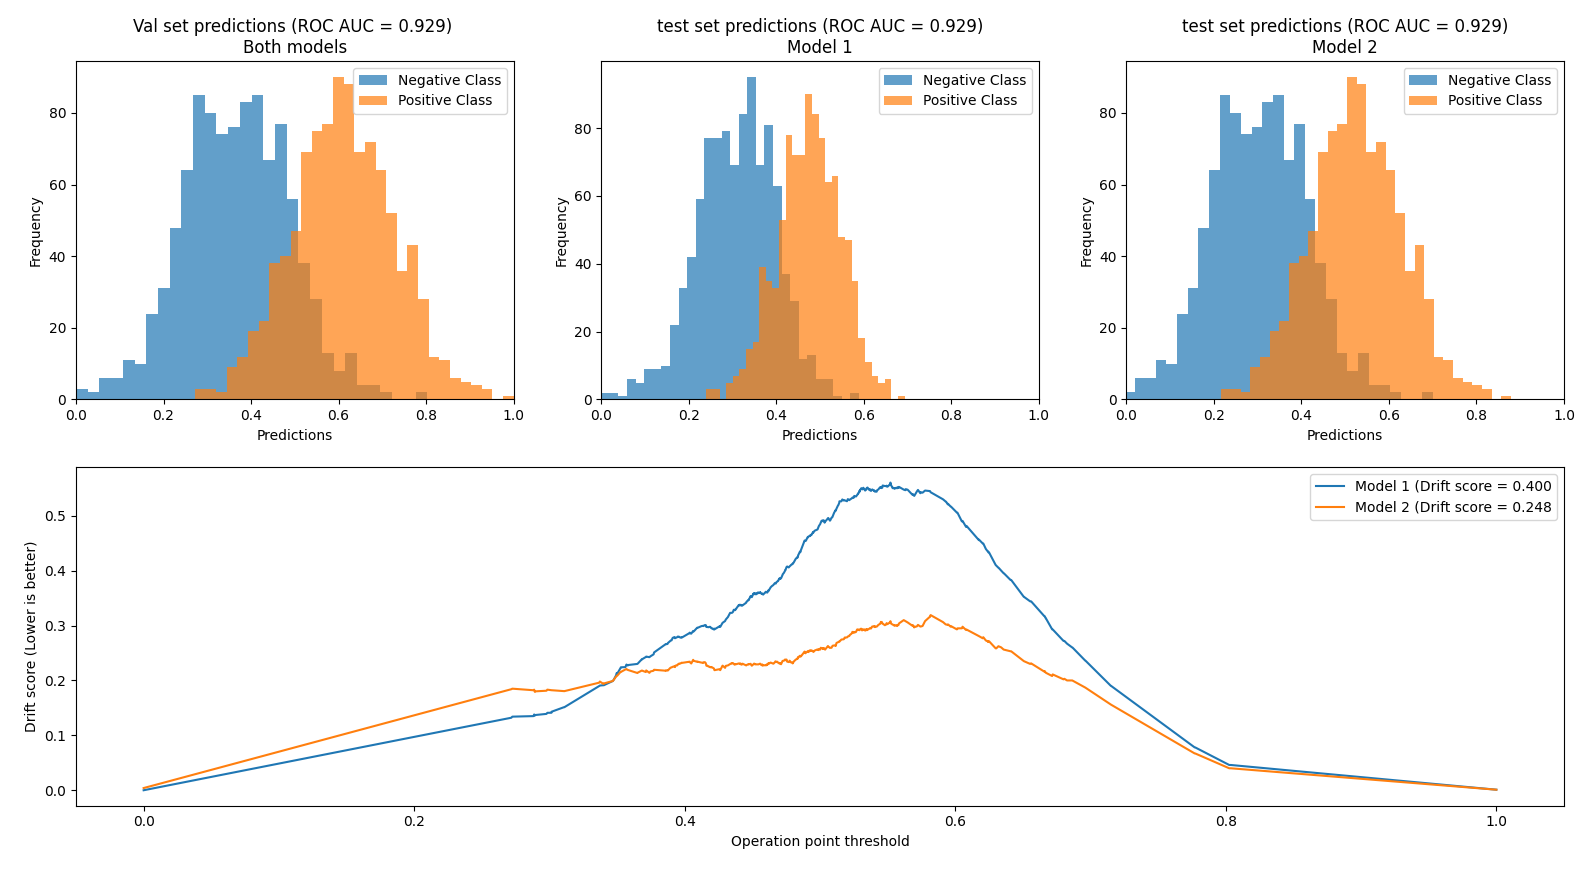
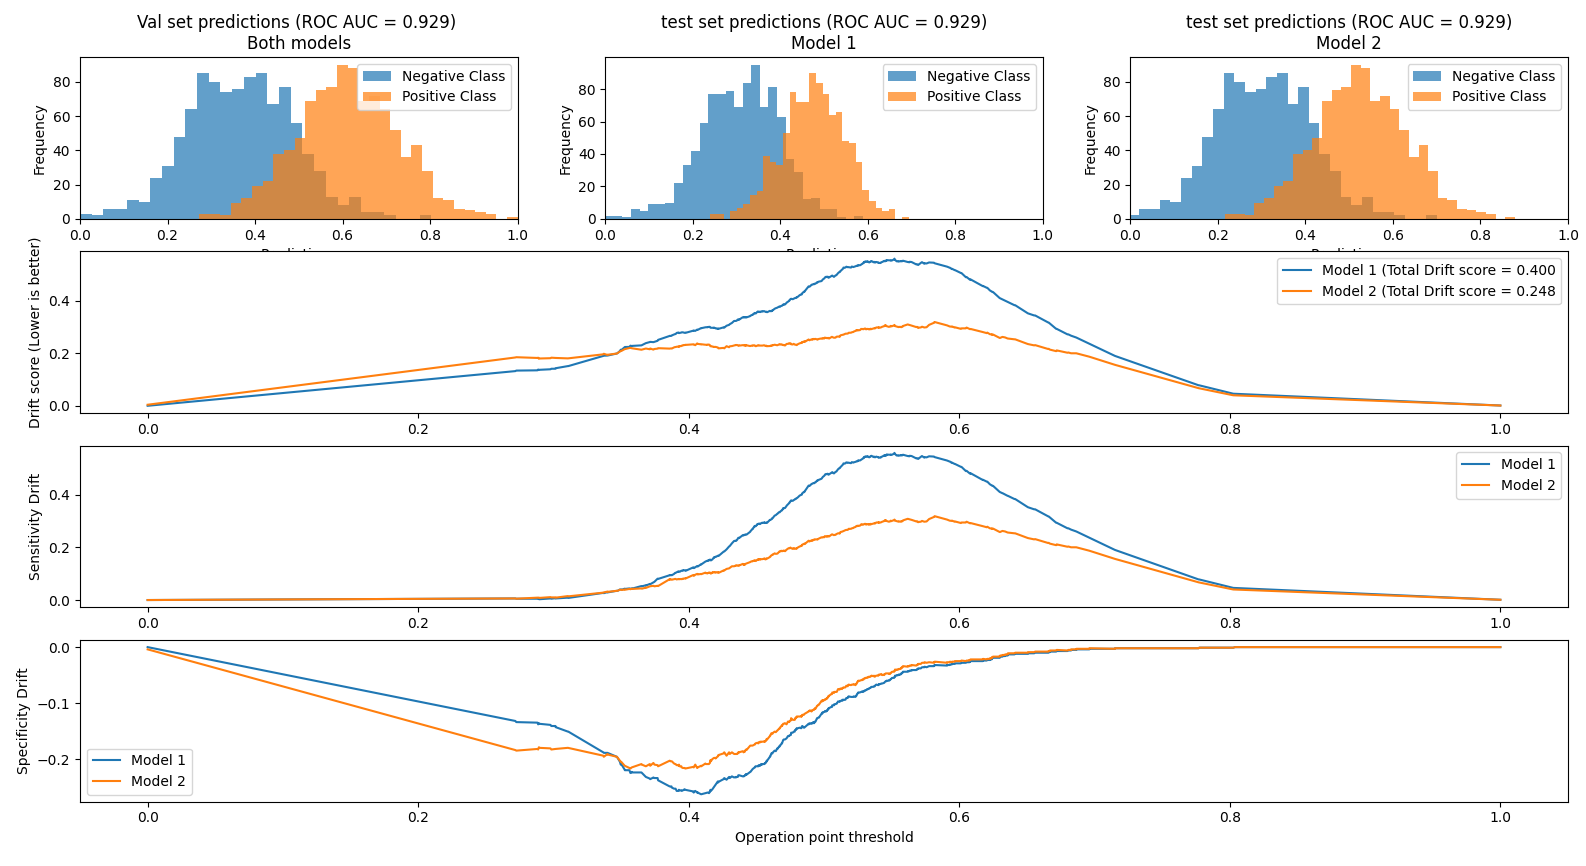
included sens/spec drift updated example 3

diff --git a/example3.py b/example3.py
@@ -16,16 +16,18 @@ positives = np.random.normal(0.8, std, N)
 val_prediction = np.concatenate((negatives, positives))
 val_prediction -= np.min(val_prediction)
 val_prediction /= np.max(val_prediction)
-test_prediction1 = np.log(val_prediction + 1)  # Assume some model predictions on test set
-scores1, th1, result1 = roc_drift_score(truth, val_prediction, truth, test_prediction1)
+test_prediction1 = np.log(val_prediction + 1)  # Simulate some model predictions on test set
+tpr_drift1, fpr_drift1, scores1, th1, result1 = roc_drift_score(truth, val_prediction, truth, test_prediction1)
 
-test_prediction2 = val_prediction/1.1 - 0.03  # Assume some OTHER model predictions on test set
-scores2, th2, result2 = roc_drift_score(truth, val_prediction, truth, test_prediction2)
+test_prediction2 = val_prediction/1.1 - 0.03  # Simulate some OTHER model predictions on test set
+tpr_drift2, fpr_drift2, scores2, th2, result2 = roc_drift_score(truth, val_prediction, truth, test_prediction2)
 
-val_dist_ax = plt.subplot(2, 3, 1)
-test1_dist_ax = plt.subplot(2, 3, 2)
-test2_dist_ax = plt.subplot(2, 3, 3)
-drift_ax = plt.subplot(2, 1, 2)
+val_dist_ax = plt.subplot(4, 3, 1)
+test1_dist_ax = plt.subplot(4, 3, 2)
+test2_dist_ax = plt.subplot(4, 3, 3)
+drift_ax = plt.subplot(4, 1, 2)
+sensitivity_drift_ax = plt.subplot(4, 1, 3)
+specificity_drift_ax = plt.subplot(4, 1, 4)
 
 val_dist_ax.hist(val_prediction[:N], label='Negative Class', alpha=0.7, bins=bins)
 val_dist_ax.hist(val_prediction[N:], label='Positive Class', alpha=0.7, bins=bins)
@@ -54,10 +56,24 @@ test2_dist_ax.legend()
 test2_dist_ax.set_xlabel('Predictions')
 test2_dist_ax.set_ylabel('Frequency')
 
-drift_ax.plot(th1, scores1, label=f'Model 1 (Drift score = {result1:.3f}')
-drift_ax.plot(th2, scores2, label=f'Model 2 (Drift score = {result2:.3f}')
+drift_ax.plot(th1, scores1, label=f'Model 1 (Total Drift score = {result1:.3f}')
+drift_ax.plot(th2, scores2, label=f'Model 2 (Total Drift score = {result2:.3f}')
 drift_ax.legend()
-drift_ax.set_xlabel('Operation point threshold')
+# drift_ax.set_xlabel('Operation point threshold')
 drift_ax.set_ylabel('Drift score (Lower is better)')
+
+sensitivity_drift_ax.plot(th1, tpr_drift1, label=f'Model 1')
+sensitivity_drift_ax.plot(th2, tpr_drift2, label=f'Model 2')
+sensitivity_drift_ax.legend()
+# sensitivity_drift_ax.set_xlabel('Operation point threshold')
+sensitivity_drift_ax.set_ylabel('Sensitivity Drift')
+
+# spec_drift = spec_val - spec_tst = (1 - fpr_val) - (1 - fpr_tst) = fpr_tst - fpr_val
+specificity_drift_ax.plot(th1, -fpr_drift1, label=f'Model 1')
+specificity_drift_ax.plot(th2, -fpr_drift2, label=f'Model 2')
+specificity_drift_ax.legend()
+specificity_drift_ax.set_xlabel('Operation point threshold')
+specificity_drift_ax.set_ylabel('Specificity Drift')
+
 
 plt.show()

diff --git a/src/evaluate_auc.py b/src/evaluate_auc.py
@@ -1,11 +1,9 @@
-from sklearn.metrics import roc_curve, auc
+from sklearn.metrics import roc_curve, auc, confusion_matrix
 import numpy as np
 
 def calc_tpr_fpr(pred, ground_truth, th):
-    tp = np.sum(pred[ground_truth == 1] >= th)
-    tn = np.sum(pred[ground_truth == 0] < th)
-    fp = np.sum(pred[ground_truth == 0] >= th)
-    fn = np.sum(pred[ground_truth == 1] < th)
+    binary_pred = pred >= th
+    tn, fp, fn, tp = confusion_matrix(ground_truth, binary_pred, labels=[0, 1]).ravel()
     fpr = fp / (fp + tn)
     tpr = tp / (tp + fn)
     return fpr, tpr
@@ -41,12 +39,13 @@ def roc_drift_score(y_true_val, y_score_val, y_true_tst, y_score_tst, pos_label=
     :return: drift score - Lower is better.
     """
     fpr_val, tpr_val, thresholds_val = roc_curve(y_true_val, y_score_val, pos_label=pos_label)
-
-    scores=[]
+    tpr_drift = []
+    fpr_drift = []
     for th, vfpr, vtpr in zip(thresholds_val,fpr_val, tpr_val):
         tfpr, ttpr = calc_tpr_fpr(y_score_tst, y_true_tst, th)
-        dist = np.linalg.norm(np.array([vfpr, vtpr])-np.array([tfpr, ttpr]))
-        scores.append(dist)
-    scores = np.array(scores)
-
-    return scores, thresholds_val ,np.mean(scores)
+        tpr_drift.append(vtpr-ttpr)
+        fpr_drift.append(vfpr-tfpr)
+    l2_scores = np.linalg.norm(np.array([tpr_drift,fpr_drift]), axis=0)
+    tpr_drift = np.array(tpr_drift)
+    fpr_drift = np.array(fpr_drift)
+    return tpr_drift, fpr_drift, l2_scores, thresholds_val, np.mean(l2_scores)

diff --git a/README.md b/README.md
@@ -26,4 +26,6 @@ Demonstrates a measure of DRIFT between the validation set and the test set
 We show two models, both of them "happen" to have the exact same AUC on the validation and test sets.
 However, evaluating the DRIFT of the Sensitivity/Specificity operation point reveals that Model 2 is far better
 
+Note that at some operation point, Model 1 actually exceeds a drift of 50% from the Sensitivity expected at Validation time, compared to the Sensitivity received at test time - without affecting the total AUC. 
+
 ![Example3](https://github.com/alonhzn/testAUC/blob/main/images/example3.png?raw=true)
